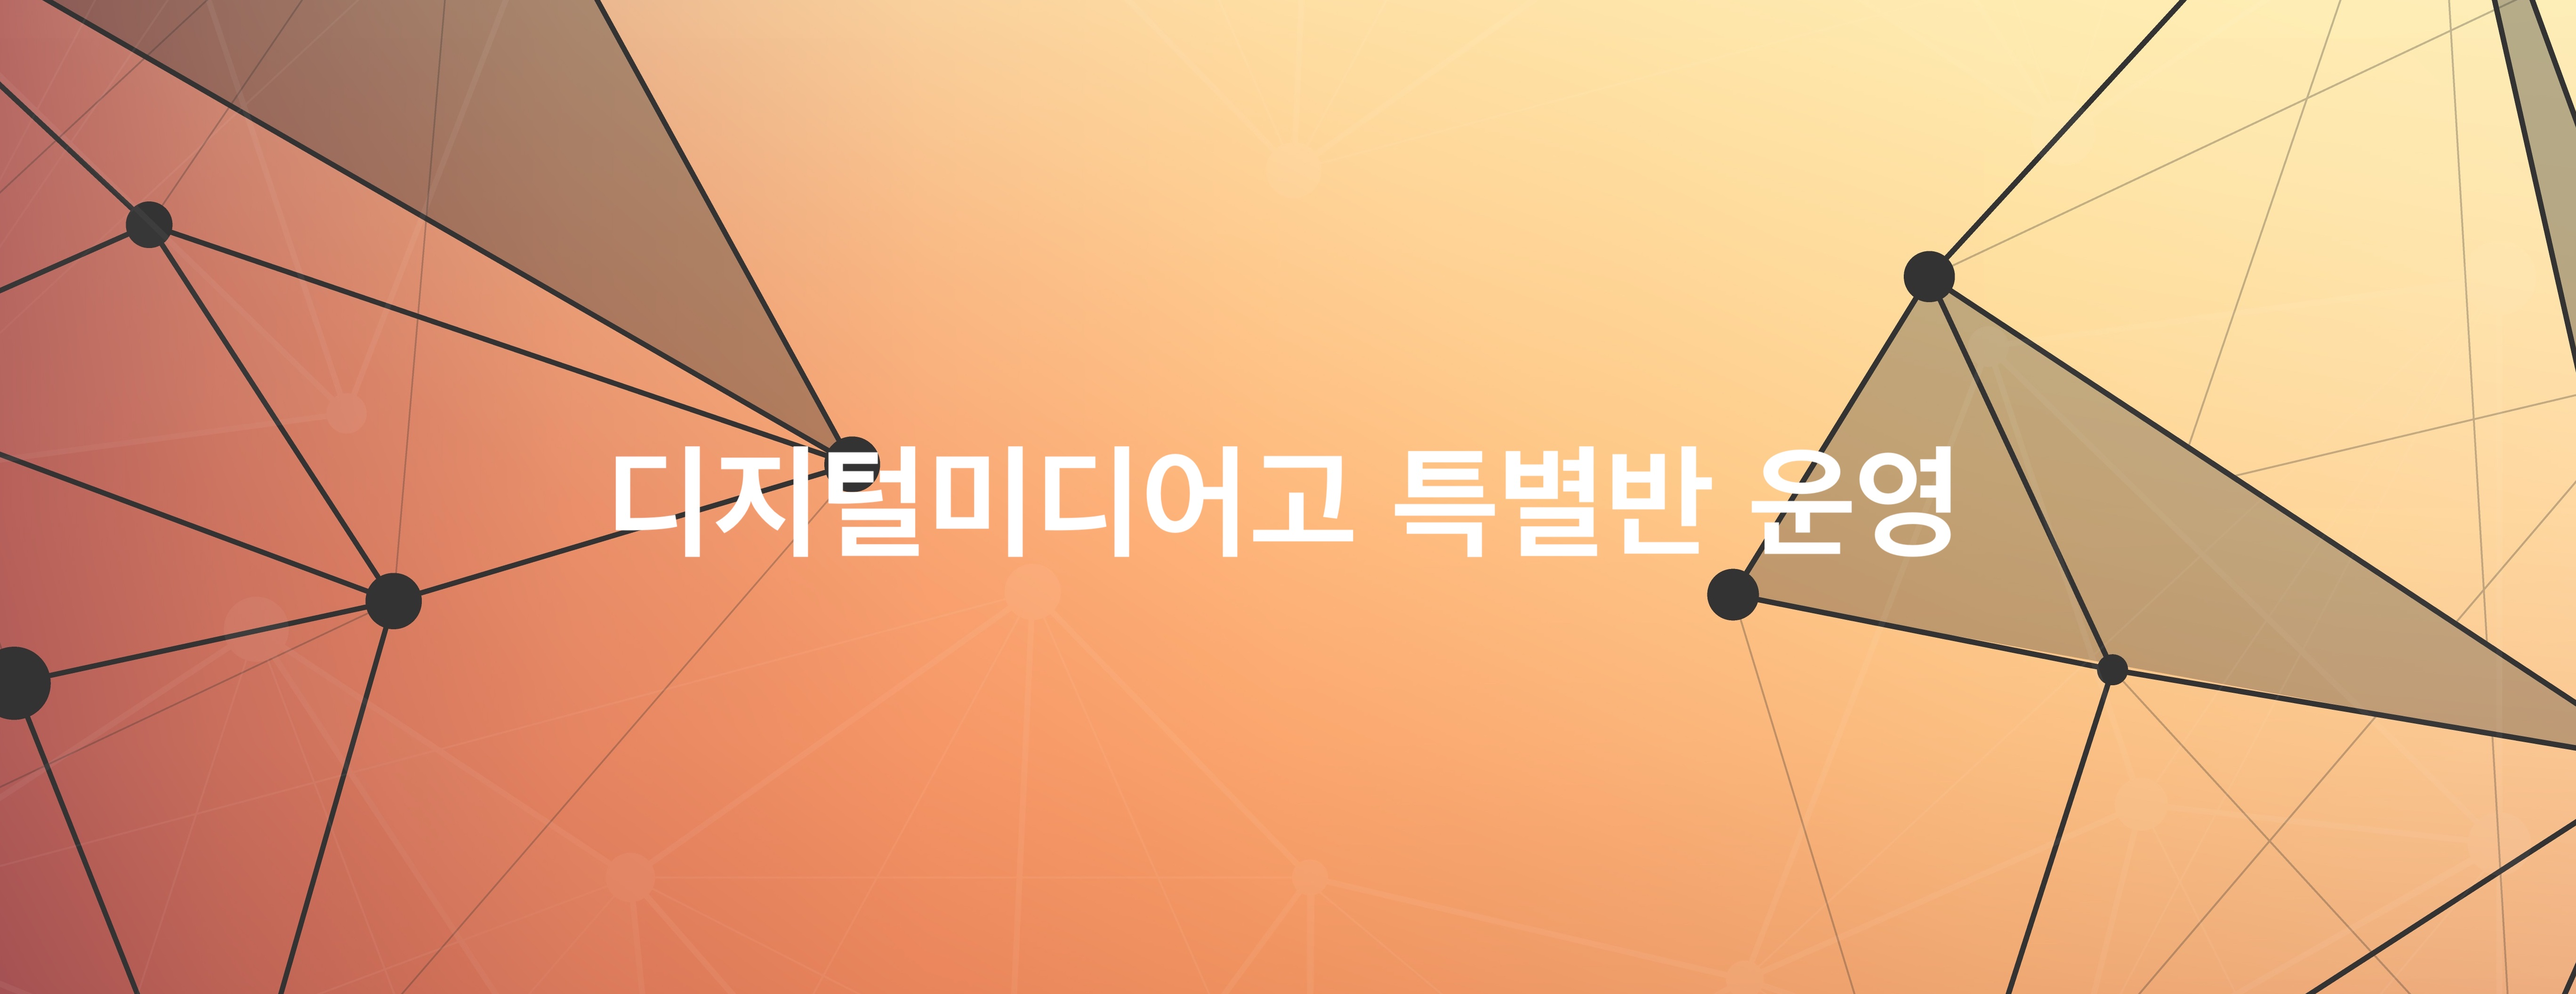
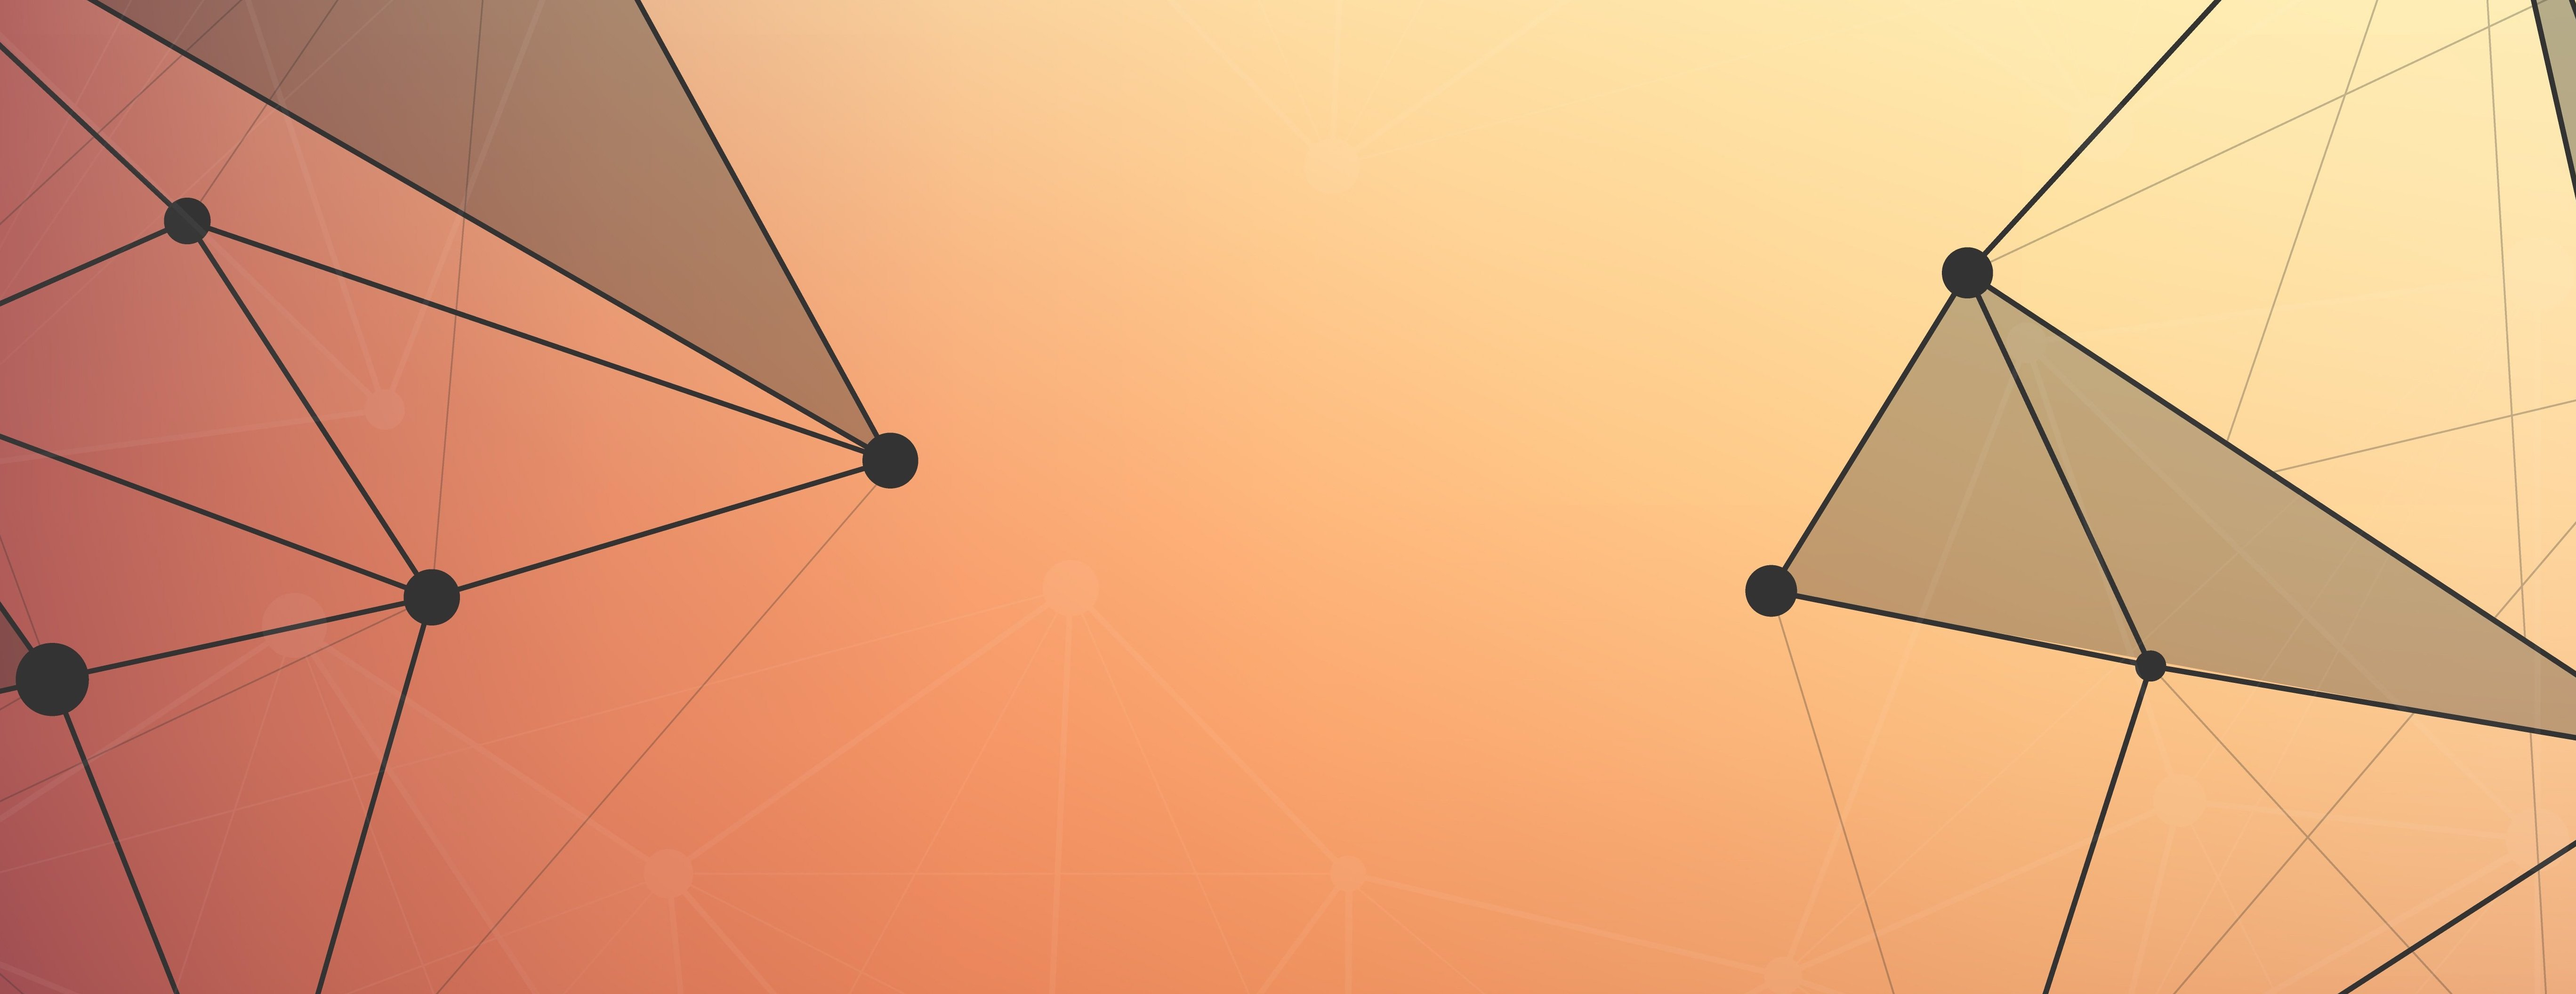
Text Title Over Image Slide

diff --git a/public/html/index.html b/public/html/index.html
@@ -24,6 +24,9 @@
                 $('.slider').bxSlider({
                     auto: true,
                 });
+                $('.gallery').bxSlider({
+                    auto: true,
+                });
             });
         </script>
     </head>
@@ -40,31 +43,56 @@
                 </button>
                 <div class="collapse navbar-collapse" id="navbarResponsive">
                     <ul class="navbar-nav text-uppercase ms-auto py-4 py-lg-0">
-                        <li class="nav-item"><a class="nav-link" href="#gallery">갤러리</a></li>
                         <li class="nav-item"><a class="nav-link" href="#curriculum">커리큘럼</a></li>
+                        <li class="nav-item"><a class="nav-link" href="#gallery">갤러리</a></li>
                         <!-- <li class="nav-item"><a class="nav-link" href="#notice">학원소식</a></li> -->
                         <li class="nav-item"><a class="nav-link" href="#map">방문안내</a></li>
                     </ul>
                 </div>
             </div>
         </nav>
+        
         <!-- 메인 이미지 슬라이더 -->
-        <header class="slider">
-            <img src="../assets/img/main/header-bg.jpg" style="position: absolute; top: 0; left: 0; right: 0; bottom: 0; transform: translate(50, 50);
+        <header class="slider" style="position: relative;">
+            <li  style="position: absolute; top: 0; left: 0; right: 0; bottom: 0; transform: translate(50, 50);
             width: 100%;
             height: 70vh;
             object-fit: cover;
             margin: auto;">
-            <img src="../assets/img/main/header-dimi.jpg" style="position: absolute; top: 0; left: 0; right: 0; bottom: 0;  transform: translate(50, 50);
+                <img src="../assets/img/main/header-bg.jpg" style="width: 100%; height: 100%">
+                <div style="position: absolute;
+                top: 50%;
+                left: 50%;
+                transform: translate(-50%, -50%); font-size: 4em; font-weight: bold;">
+                    코딩랩학원
+                </div>
+            </li>
+            <li style="position: absolute; top: 0; left: 0; right: 0; bottom: 0; transform: translate(50, 50);
             width: 100%;
             height: 70vh;
             object-fit: cover;
             margin: auto;">
-            <img src="../assets/img/main/header-hakjong.jpg" style="position: absolute; top: 0; left: 0; right: 0; bottom: 0;  transform: translate(50, 50);
+                <img src="../assets/img/main/header-dimi.jpg" style="width: 100%; height: 100%">
+                <div style="position: absolute;
+                top: 50%;
+                left: 50%;
+                transform: translate(-50%, -50%);">
+                    디지털미디어고 준비반 운영
+                </div>
+            </li>
+            <li style="position: absolute; top: 0; left: 0; right: 0; bottom: 0; transform: translate(50, 50);
             width: 100%;
             height: 70vh;
             object-fit: cover;
             margin: auto;">
+                <img src="../assets/img/main/header-hakjong.jpg" style="width: 100%; height: 100%">
+                <div style="position: absolute;
+                top: 50%;
+                left: 50%;
+                transform: translate(-50%, -50%);">
+                    SW 특기자 전형 준비반 개설
+                </div>
+            </li>
             <!--
             <div class="container"> 
                 <div class="masthead-heading text-uppercase">코딩랩학원</div>
@@ -72,27 +100,11 @@
             </div>
             -->
         </header>
-        <!-- 갤러리 -->
-        <section class="page-section" id="gallery">
-            <div class="container">
-                <div class="text-center">
-                    <h2 class="section-heading text-uppercase">갤러리</h2>
-                    <h3 class="section-subheading text-muted">Gallery</h3>
-                </div>
-                <!-- 이미지 슬라이더 -->
-                <div class="slider">
-                    <img src="assets/img/gallery/01.jpg">
-                    <img src="assets/img/gallery/02.jpg">
-                    <img src="assets/img/gallery/03.jpg">
-                </div>
-            </div>
-        </section>
         <!-- 커리큘럼 -->
         <section class="page-section bg-light" id="curriculum">
             <div class="container">
                 <div class="text-center">
-                    <h2 class="section-heading text-uppercase">커리큘럼</h2>
-                    <h3 class="section-subheading text-muted">Curriculum</h3>
+                    <h2 class="section-heading text-uppercase">커리큘럼</h2><br>
                 </div>
                 <div class="row">
                     <div class="col-lg-4 col-sm-6 mb-4">
@@ -185,6 +197,20 @@
                             </div>
                         </div>
                     </div>
+                </div>
+            </div>
+        </section>
+        <!-- 갤러리 -->
+        <section class="page-section" id="gallery">
+            <div class="container">
+                <div class="text-center">
+                    <h2 class="section-heading text-uppercase">갤러리</h2><br>
+                </div>
+                <!-- 이미지 슬라이더 -->
+                <div class="gallery">
+                    <img src="assets/img/gallery/01.jpg">
+                    <img src="assets/img/gallery/02.jpg">
+                    <img src="assets/img/gallery/03.jpg">
                 </div>
             </div>
         </section>

diff --git a/public/css/styles.css b/public/css/styles.css
@@ -11452,6 +11452,7 @@ header.slider {
   overflow: hidden;
 }
 
+
 @media (min-width: 768px) {
   header.masthead {
     padding-top: 17rem;
